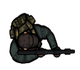
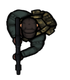
One enemy on level, not sure what he's doing.

diff --git a/src/engine/display/Level.js b/src/engine/display/Level.js
@@ -25,6 +25,8 @@ class Level extends DisplayObjectContainer{
 		this.focusChild = undefined;
 		this.animals = [];
 		this.healthBars = [];
+		this.friendlies = [];
+		this.enemies = [];
 	}
 
 	update(pressedKeys) {
@@ -43,15 +45,27 @@ class Level extends DisplayObjectContainer{
 		this.animals.forEach(function (animal) {
 			if (animal.hasSpawned() && !animal.isAlive()) {
 				that.removeChild(animal);
+				that.removeFriendly(animal);
 			}
 		});
 		this.animals = this.animals.filter((animal) => (!animal.hasSpawned() || animal.isAlive()));
+
+		// Remove enemies that have died
+		this.enemies.forEach(function (enemy) {
+			if (!enemy.isAlive()) {
+				that.removeChild(enemy);
+			}
+		});
+		this.enemies = this.enemies.filter((enemy) => (enemy.isAlive()));
 	}
 
 	draw(g) {
 		super.draw(g);
 	}
 
+	/**
+	  * Focus child
+	 */
 	setFocusChild(child) {
 		if (this.focusChild !== undefined) {
 			this.removeFocusChild();
@@ -79,22 +93,53 @@ class Level extends DisplayObjectContainer{
 		this.addChild(child, this.getChildIndex(this.focusChild));
 	}
 
+	/**
+	  * Animals
+	 */
 	addAnimal(animal) {
 		animal.setLevel(this);
 		this.addChildBeforeFocus(animal);
 		this.animals.push(animal);
+		this.addFriendly(animal);
 	}
 
+	/**
+	  * Health
+	 */
 	monitorHealth(entity) {
 		var healthBar = new HealthBar(entity);
 		this.addChild(healthBar, this.getChildIndex(entity) + 1);
 		this.healthBars.push(healthBar);
 	}
 
-	getFriendlyEntities() {
-		return [];
+	/**
+	  * Friendlies
+	 */
+	addFriendly(entity) {
+		this.friendlies.push(entity);
 	}
 
+	removeFriendly(entity) {
+		this.friendlies.splice(this.friendlies.indexOf(entity), 1);
+	}
+
+	getFriendlyEntities() {
+		return this.friendlies;
+	}
+
+	/**
+	  * Enemies
+	 */
+	addEnemy(enemy) {
+		enemy.setLevel(this);
+		this.addChildBeforeFocus(enemy);
+		this.enemies.push(enemy);
+		this.monitorHealth(enemy);
+	}
+
+	/**
+	  * Tiles
+	 */
 	generateTileRect(horizontalTiles, verticalTiles, position, scale, tileId) {
 		var tile = (tileId !== undefined) ? TILES[tileId] : TILES[LEVEL_VARS.DEFAULT_TILE],
 			generatedTile = new DisplayObjectContainer(),

diff --git a/src/engine/entities/enemies/BasicEnemy.js b/src/engine/entities/enemies/BasicEnemy.js
@@ -6,26 +6,30 @@ var BASIC_ENEMY_VARS = {
 	ATTACK_DMG: 10,
 	HEALTH: 50,
 	SPEED: 2,
-	MOVE_BEHAVIOR: 'NONE'
+	MOVE_BEHAVIOR: 'NONE',
+	SPAWN_IDLE: "biomancer/enemies/basic-enemy/basic-enemy.png",
+	SPAWN_IDLE_PIVOT: {x: 35, y: 40},
+	SPAWN_DIMENSIONS: {width: 70, height: 80}
 };
 
 class BasicEnemy extends Enemy {
-	constructor(id, health, spawnIdle, spawnIdlePivot) {
-		super(id, health, spawnIdle, spawnIdlePivot);
+	constructor() {
+		super("basic-enemy-" + BASIC_ENEMY_VARS.count, BASIC_ENEMY_VARS.HEALTH, BASIC_ENEMY_VARS.SPAWN_IDLE, BASIC_ENEMY_VARS.SPAWN_IDLE_PIVOT);
 		this.closestFriendlyInSight = undefined;
+		BASIC_ENEMY_VARS.count++;
 	}
 
 	move() {
 		let friendlies = this.getInSight(BASIC_ENEMY_VARS.SIGHT_RANGE);
-		if(friendles.length === 0) {//No animals or biomancer in range, move randomly
+		if(friendlies.length === 0) {//No animals or biomancer in range, move randomly
 			this.closestFriendlyInSight = undefined;
 			setMovement(0, 0);
 		} else {
-			this.closestFriendlyInSight = friendles[0]; //MOVE TOWARDS CLOSEST FRIENDLY
-			let posToMove = friendles[0].o.getPosition(),
-				xMove = (this.position.x > posToMove.x) ? -1 : (this.position.x < posToMove.x) -1 : 0, 
-				yMove = (this.position.y > posToMove.y) ? -1 : (this.position.y < posToMove.y) -1 : 0;
-			setMovement(xMove, yMove);
+			this.closestFriendlyInSight = friendlies[0]; //MOVE TOWARDS CLOSEST FRIENDLY
+			let posToMove = friendlies[0].o.getPosition(),
+				xMove = (this.position.x > posToMove.x) ? -1 : (this.position.x < posToMove.x) ? -1 : 0, 
+				yMove = (this.position.y > posToMove.y) ? -1 : (this.position.y < posToMove.y) ? -1 : 0;
+			this.setMovement(xMove, yMove);
 		}
 	}
 

diff --git a/src/master-biomancer/MasterBiomancerPrototype.js b/src/master-biomancer/MasterBiomancerPrototype.js
@@ -37,12 +37,22 @@ class MasterBiomancerGame extends Game{
 		super.initializeLevels();
 
 		// Create levels
-		var currentLevel;
+		var currentLevel, currentBiomancer, currentEnemy;
 
 		// Level 1
 		currentLevel = new Level("level" + this.currentLevelId);
 		currentLevel.addChild(currentLevel.generateTileRect(8, 4, {x: 100, y: 100})); // Tiles first!
-		currentLevel.setFocusChildAndMonitorHealth(this.generateBiomancer(440, 211, currentLevel));
+
+		// ... Biomancer
+		currentBiomancer = this.generateBiomancer(440, 211, currentLevel);
+		currentLevel.setFocusChildAndMonitorHealth(currentBiomancer);
+		currentLevel.addFriendly(currentBiomancer);
+
+		// ... Enemies
+		currentEnemy = this.generateBasicEnemy(740, 110, currentLevel);
+		currentLevel.addEnemy(currentEnemy);
+
+		// ... Add level
 		this.addLevel(currentLevel);
 
 		// ... More levels later
@@ -52,9 +62,18 @@ class MasterBiomancerGame extends Game{
 		var biomancer = new Biomancer();
 		biomancer.setParent(level);
 		biomancer.setPosition({x: x, y: y});
-		biomancer.setPivotPoint({x: 30, y: 35});
+		biomancer.setPivotPoint(BIOMANCER_VARS.PIVOT);
 		biomancer.hitbox.setHitboxFromImage(BIOMANCER_VARS.DIMENSIONS);
 		return biomancer;
+	}
+
+	generateBasicEnemy(x, y, level) {
+		var enemy = new BasicEnemy();
+		enemy.setParent(level);
+		enemy.setPosition({x: x, y: y});
+		enemy.setPivotPoint(BASIC_ENEMY_VARS.SPAWN_IDLE_PIVOT);
+		enemy.hitbox.setHitboxFromImage(BASIC_ENEMY_VARS.SPAWN_DIMENSIONS);
+		return enemy;
 	}
 }
 

diff --git a/src/engine/entities/Enemy.js b/src/engine/entities/Enemy.js
@@ -95,15 +95,19 @@ class Enemy extends Entity {
 		this.health-=hit;
 	}
 
+	setLevel(level) {
+		this.parent = level;
+	}
+
 	getInSight(sight_range) {
 		//Returns a list of all friendly entities (Biomancer and animals)
 		//Sorted by distance from the enemy
-		let allFriendlies = this.getLevel().getFriendlyEntities(),
+		let allFriendlies = this.parent.getFriendlyEntities(),
 			inRange = [];
 		for(let i = 0; i < allFriendlies.length; i++) {
 			let dist = this.distanceTo(allFriendlies[i].position);
 			if(dist <= sight_range) {
-				inRange.push({o: allFriendlies[i], distance: dist);
+				inRange.push({o: allFriendlies[i], distance: dist});
 			}
 		}
 		inRange.sort((a, b) => a.distance-b.distance)

diff --git a/index.html b/index.html
@@ -35,6 +35,8 @@
 	<script type="text/javascript" src="src/engine/entities/animals/Wolf.js"></script>
 	<script type="text/javascript" src="src/engine/entities/Gun.js"></script>
 	<script type="text/javascript" src="src/engine/entities/Biomancer.js"></script>
+	<script type="text/javascript" src="src/engine/entities/Enemy.js"></script>
+	<script type="text/javascript" src="src/engine/entities/enemies/BasicEnemy.js"></script>
 	<script type="text/javascript" src="src/engine/entities/HealthBar.js"></script>
 
 	<script type="text/javascript" src="src/master-biomancer/MasterBiomancerPrototype.js"></script>

diff --git a/src/engine/entities/animals/Wolf.js b/src/engine/entities/animals/Wolf.js
@@ -47,12 +47,8 @@ class Wolf extends Animal {
 		}
 
 		// Change direction
-		if (Math.random() < WOLF_VARS.TURN_PROBABILITY) {
-			var r = MathUtil.modRadians(this.rotation + MathUtil.randomInt(-1, 1) * (MathUtil.PI4));
-			this.setDirection(r);
-		} else if (forceTurn) {
-			var r = MathUtil.modRadians(this.rotation + MathUtil.either(-1, 1) * (MathUtil.PI4));
-			this.setDirection(r);
+		if (Math.random() < WOLF_VARS.TURN_PROBABILITY || forceTurn) {
+			this.setDirection(MathUtil.modRadians(this.rotation + MathUtil.either(-1, 1) * (MathUtil.PI4)));
 		}
 	}
 	

diff --git a/src/engine/entities/Biomancer.js b/src/engine/entities/Biomancer.js
@@ -5,6 +5,7 @@ var BIOMANCER_VARS = {
 	HEALTH: 100,
 	FILENAME: "biomancer/main-char/biomancer.png",
 	DIMENSIONS: {width: 60, height: 70},
+	PIVOT: {x: 30, y: 35},
 	GUN_POSITION: {x: 45, y: 52},
 	SPEED: 3
 };
